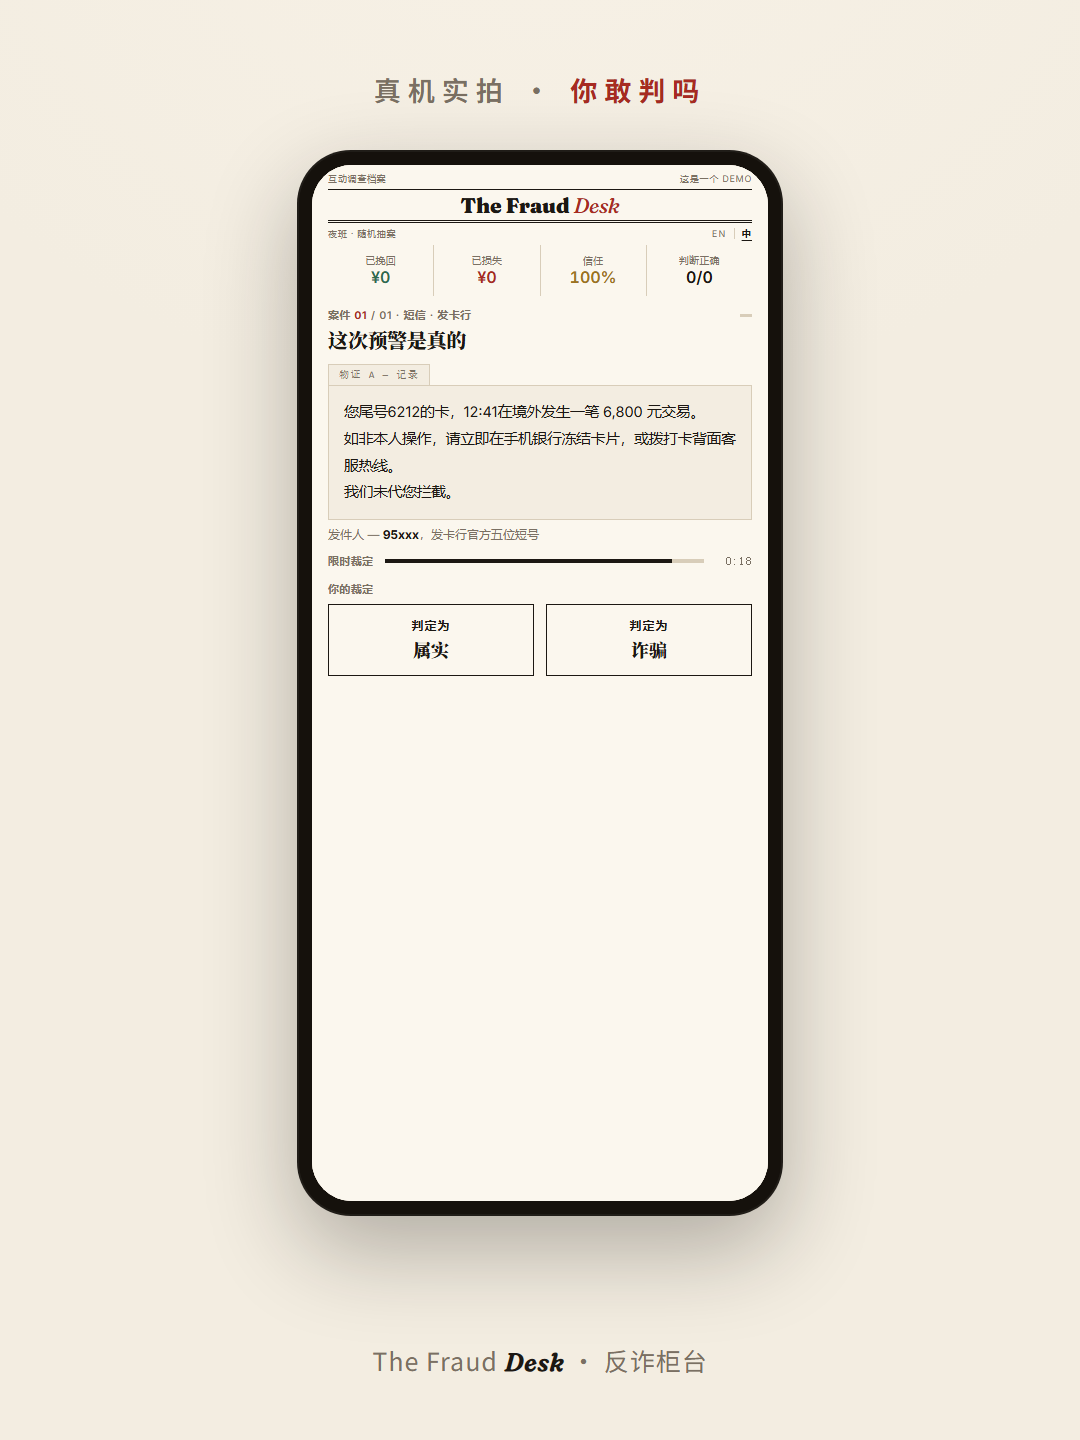
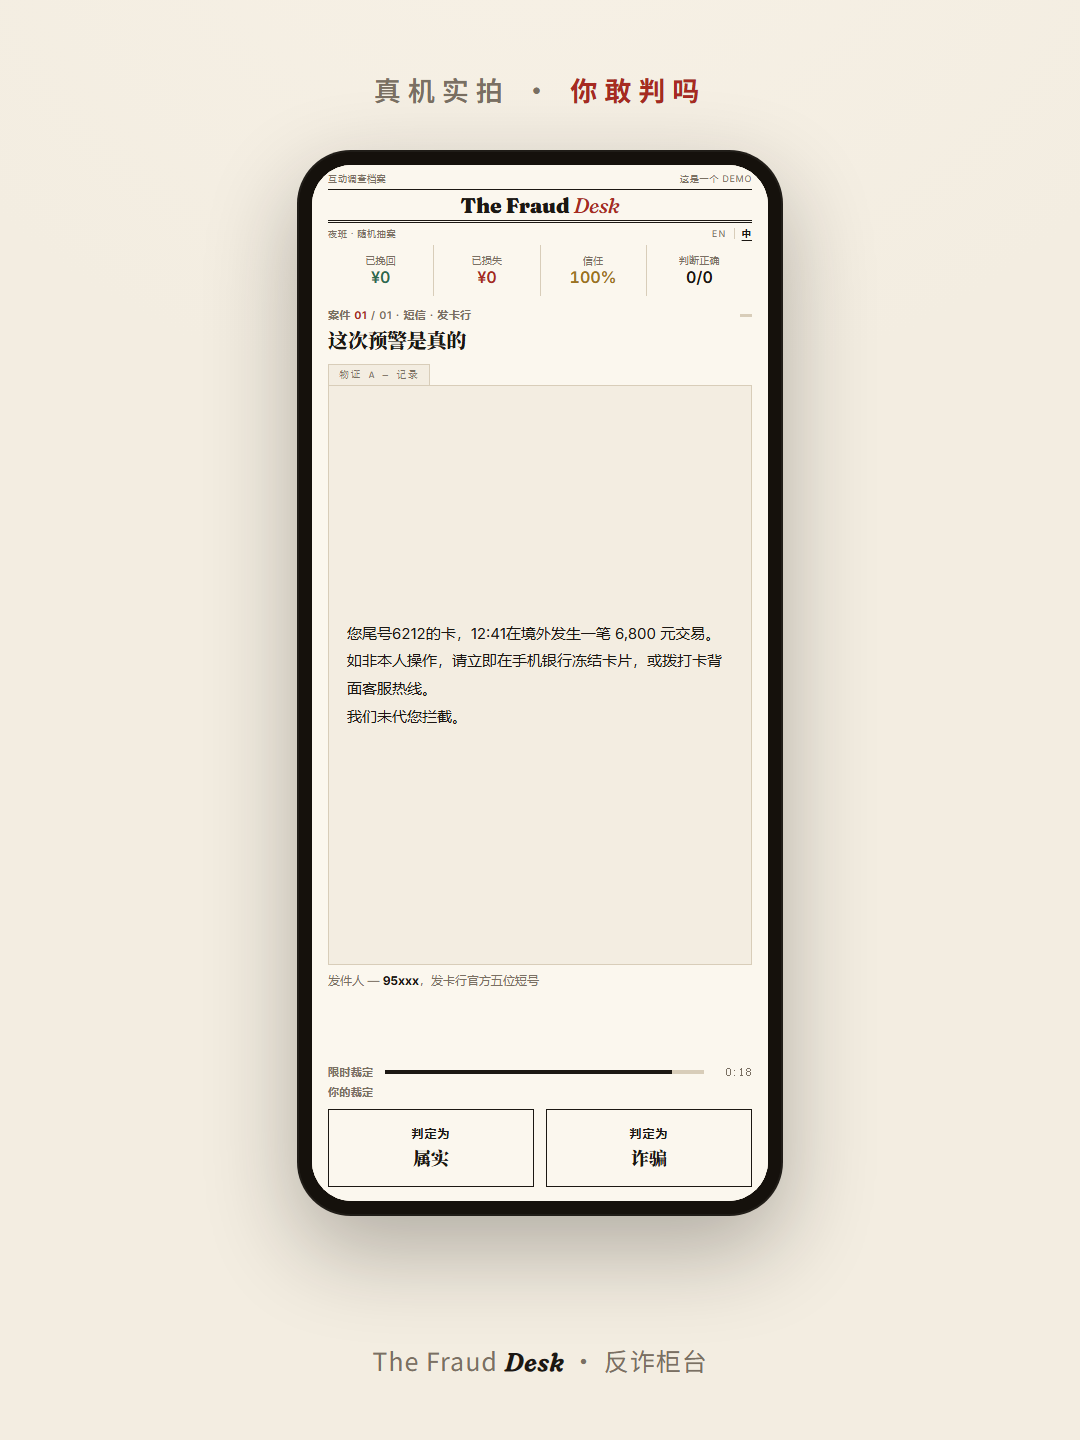
Mobile: fill the screen instead of clustering content up top
On phones the case screen piled all content into the upper half and
left a dead band below. Make the mobile column actually use its height:
the evidence box grows to fill (capped, scrolls if long, message
centered) and the timer + ruling buttons anchor to the bottom (thumb
zone). The verdict likewise fills — tells/reveal up top, the next
button pinned to the bottom (wrap stamp+cost so the flex column
doesn't distort them). Re-rendered card5/card6 with the fixed layout.

diff --git a/style.css b/style.css
@@ -231,24 +231,33 @@
     .ledger .v { font-size: 16px; }
     main, .screen { padding: 12px 16px 14px; }
 
-    /* case screen = flexible column; the exhibit caps its height and scrolls inside */
+    /* case screen = full-height column: case sits up top, the ruling area is
+       anchored to the bottom (thumb zone). The slack between them is shared so
+       nothing clusters in the upper half. */
     #caseScreen { flex: 1 1 auto; min-height: 0; display: flex; flex-direction: column; }
     .case-head .ticks i { width: 12px; }
     .case-title { font-size: 20px; margin: 8px 0 10px; }
-    .exhibit { font-size: 14.5px; line-height: 1.7; padding: 13px 15px; max-height: 32dvh; overflow-y: auto; }
-    #caseScreen.decided .exhibit { max-height: 15dvh; }
-    .sender { margin-top: 7px; }
-    .atrisk { margin: 12px 0 2px; } .atrisk .fig { font-size: 20px; }
-    .timer { margin: 12px 0 2px; }
-    .ruling-prompt { margin: 12px 0 8px; }
+    /* the evidence box is the focus: let it grow to fill the slack (capped so a
+       long message still scrolls inside), message vertically centered. */
+    .exhibit { font-size: 15px; line-height: 1.75; padding: 16px 18px; flex: 1 1 auto; max-height: 56dvh; overflow-y: auto; display: flex; flex-direction: column; justify-content: center; }
+    #caseScreen.decided .exhibit { flex: 0 0 auto; max-height: 16dvh; justify-content: flex-start; }
+    .sender { margin-top: 8px; }
+    .atrisk { margin: 14px 0 2px; } .atrisk .fig { font-size: 20px; }
+    /* push the timer + ruling + buttons block to the bottom of the screen */
+    .timer { margin: auto 0 6px; }
+    #caseScreen.decided .verdict { margin-top: 14px; }   /* verdict flows top-aligned, no auto-gap */
+    .ruling-prompt { margin: 0 0 10px; }
     .actions { gap: 12px; }
-    .act { padding: 13px 10px; } .act .big { font-size: 18px; }
-    .hint { margin-top: 8px; font-size: 11px; }
+    .act { padding: 16px 10px; } .act .big { font-size: 18px; }
+    .hint { margin-top: 10px; font-size: 11px; }
     .verdict { margin-top: 12px; padding-top: 12px; }
     .stamp { font-size: 20px; }
     .tells li { padding: 7px 0 7px 32px; font-size: 13px; line-height: 1.6; }
     .pull { font-size: 16px; margin: 12px 0 4px; }
-    .next-wrap { margin-top: 14px; }
+    /* decided: verdict fills the column, the next button pins to the bottom */
+    #caseScreen.decided #verdictBox { flex: 1 1 auto; min-height: 0; display: flex; }
+    #caseScreen.decided .verdict { display: flex; flex-direction: column; flex: 1 1 auto; }
+    .next-wrap { margin-top: auto; padding-top: 16px; }
 
     /* intro / report compaction */
     .cover-title { font-size: 30px; }

diff --git a/script.js b/script.js
@@ -7613,8 +7613,7 @@ function renderVerdict() {
 
   $("verdictBox").innerHTML = `
     <div class="verdict">
-      <span class="stamp ${right ? "ok" : ""}">${T(stampKey)}</span>
-      ${cost}
+      <div class="verdict-head"><span class="stamp ${right ? "ok" : ""}">${T(stampKey)}</span>${cost}</div>
       <div class="kicker tells-kicker">${T("tells")}</div>
       <ol class="tells">${tells}</ol>
       <p class="pull">${truth}</p>